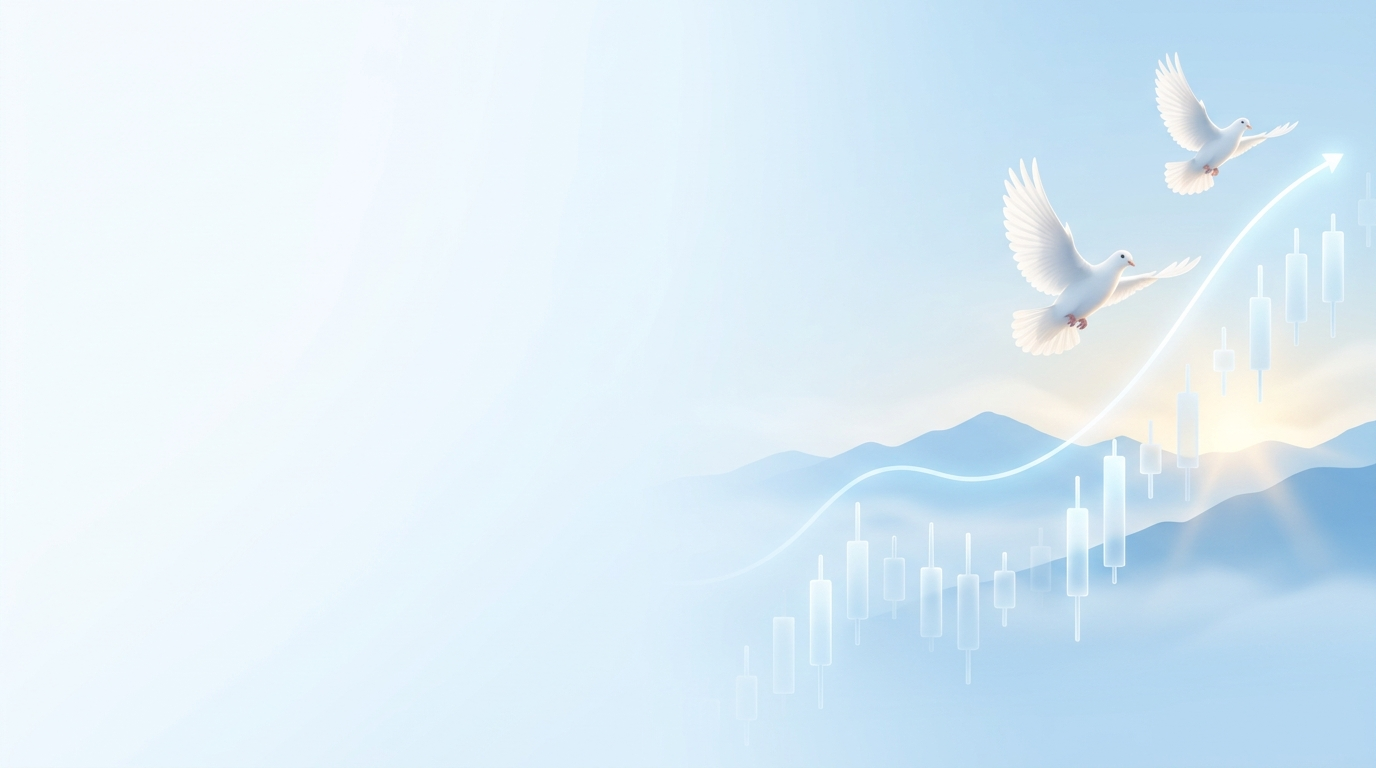
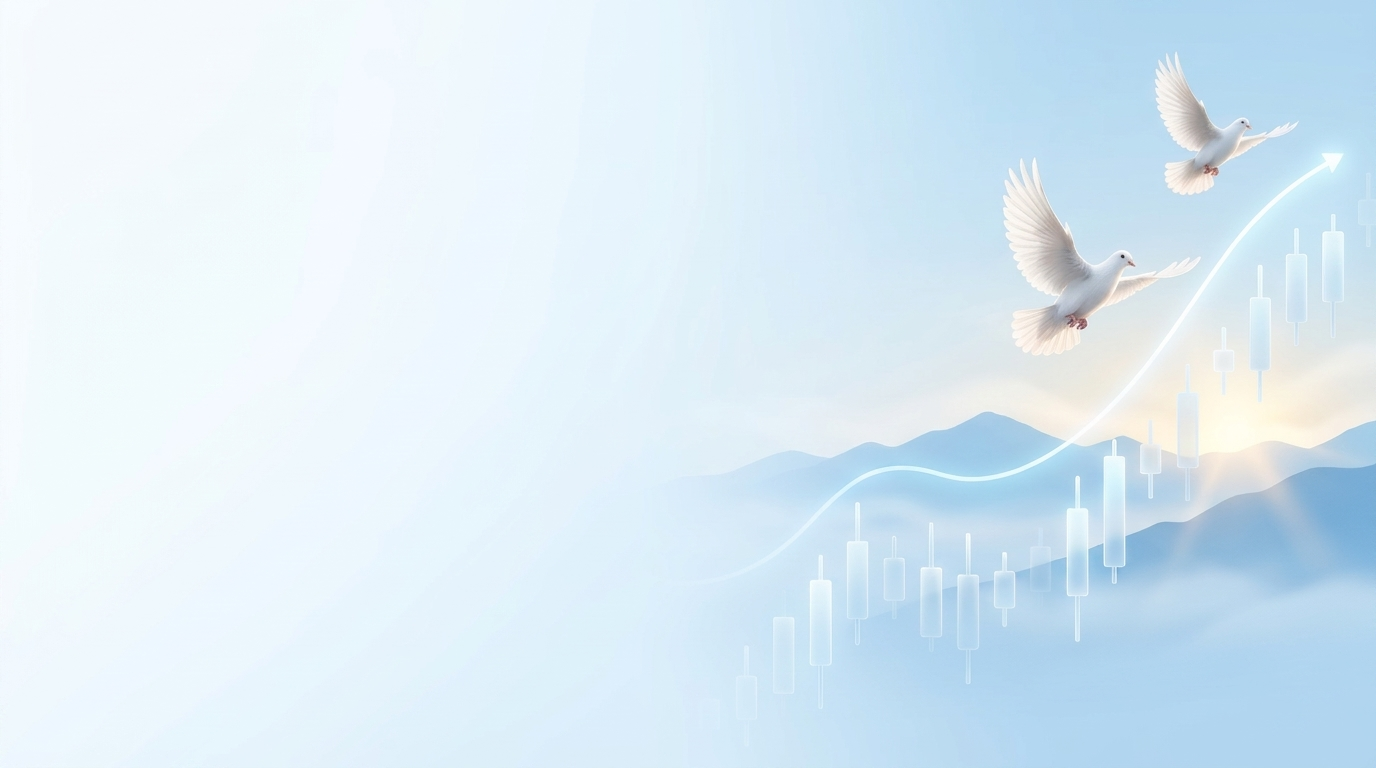
fix(ui): resolver contraste do grade c no novo trade, remover duplicacao em configuracoes e expandir tela sobre para ultrawide

Changed region(s): [[0.75, 0.25, 0.8125, 0.4375], [0.8438, 0.0938, 0.9062, 0.25]]

diff --git a/index.html b/index.html
@@ -1141,7 +1141,7 @@ body:not([data-theme="healthy"]):not([data-theme="pigeon"]) #traderprofile .plat
   <div id="traderWisdomRoot"></div>
 </section>
 
-<section class="page" id="settings"><div class="hero"><div><div class="eyebrow">Preferências do software</div><h1>Seu ambiente,<br>do seu jeito.</h1></div><p>Personalize idioma, aparência, navegação e os recursos de apoio sem alterar as regras do seu método.</p></div><div class="grid settings-grid"><div class="card theme-settings-card"><div class="card-head"><div><h3>Aparência do software</h3><span>Escolha a identidade visual que combina melhor com seu momento</span></div></div><div class="theme-picker" aria-label="Tema visual do software"><button class="theme-choice" type="button" data-theme-choice="gold" onclick="applyTheme('gold')"><span class="theme-swatch"></span>Premium Gold</button><button class="theme-choice" type="button" data-theme-choice="healthy" onclick="applyTheme('healthy')"><span class="theme-swatch"></span>Healthy Green</button><button class="theme-choice" type="button" data-theme-choice="pigeon" onclick="applyTheme('pigeon')"><span class="theme-swatch"></span>Pigeon Light</button></div></div><div class="card language-settings-card"><div class="card-head"><div><h3>Idioma do software</h3><span>Escolha como deseja ler toda a plataforma</span></div></div><p class="language-picker-label">Idioma de exibição</p><div class="language-picker" aria-label="Escolha o idioma"><button class="language-choice" type="button" data-language-choice="pt-BR" onclick="applyLanguage('pt-BR')">Português (BR)</button><button class="language-choice" type="button" data-language-choice="en-US" onclick="applyLanguage('en-US')">English (US)</button></div></div><div id="marketPauseSettingsRoot" style="grid-column: 1 / -1;"></div><div id="drSettingsSection" style="grid-column: 1 / -1;"></div></div></section>
+<section class="page" id="settings"><div class="hero"><div><h1>Seu ambiente,<br>do seu jeito.</h1></div><p>Personalize idioma, aparência, navegação e os recursos de apoio sem alterar as regras do seu método.</p></div><div class="grid settings-grid"><div class="card theme-settings-card"><div class="card-head"><div><h3>Aparência do software</h3><span>Escolha a identidade visual que combina melhor com seu momento</span></div></div><div class="theme-picker" aria-label="Tema visual do software"><button class="theme-choice" type="button" data-theme-choice="gold" onclick="applyTheme('gold')"><span class="theme-swatch"></span>Premium Gold</button><button class="theme-choice" type="button" data-theme-choice="healthy" onclick="applyTheme('healthy')"><span class="theme-swatch"></span>Healthy Green</button><button class="theme-choice" type="button" data-theme-choice="pigeon" onclick="applyTheme('pigeon')"><span class="theme-swatch"></span>Pigeon Light</button></div></div><div class="card language-settings-card"><div class="card-head"><div><h3>Idioma do software</h3><span>Escolha como deseja ler toda a plataforma</span></div></div><p class="language-picker-label">Idioma de exibição</p><div class="language-picker" aria-label="Escolha o idioma"><button class="language-choice" type="button" data-language-choice="pt-BR" onclick="applyLanguage('pt-BR')">Português (BR)</button><button class="language-choice" type="button" data-language-choice="en-US" onclick="applyLanguage('en-US')">English (US)</button></div></div><div id="marketPauseSettingsRoot" style="grid-column: 1 / -1;"></div><div id="drSettingsSection" style="grid-column: 1 / -1;"></div></div></section>
 <section class="page" id="riskpolicy"><div class="hero"><div><div class="eyebrow">Livro de regras</div><h1>Política de<br>risco.</h1></div><p>Defina o Risk Budget por Grade e os limitadores que transformam esse teto em risco executável.</p></div><div class="grid settings-grid" id="riskPolicyGrid"><section class="card"><div class="card-head"><div><h3>Proteção da conta</h3><span>Limites permanentes da operação</span></div></div><div class="setting-row"><div><b>Volatilidade alvo</b><small>Modelo baseado em ATR</small></div><strong>0,20%</strong></div><div class="setting-row"><div><b>Limite de capital</b><small>Máximo por posição</small></div><strong>10%</strong></div><div class="setting-row"><div><b>Portfolio Heat máximo</b><small>Risco agregado</small></div><strong>12,5%</strong></div><div class="setting-row"><div><b>Máximo de posições</b><small>Simultâneas</small></div><strong>10</strong></div></section><section class="card"><div class="card-head"><div><h3>Regras A</h3><span>Critérios obrigatórios do método</span></div></div><div class="setting-row"><div><b>Diário saudável</b><small>Médias totalmente alinhadas</small></div><div class="toggle on"><span></span></div></div><div class="setting-row"><div><b>ATR% abaixo de 2%</b><small>Zona verde</small></div><div class="toggle on"><span></span></div></div><div class="setting-row"><div><b>Contração no 4H</b><small>Não comprar expansão</small></div><div class="toggle on"><span></span></div></div><div class="setting-row"><div><b>Gatilho confirmado</b><small>Execução objetiva</small></div><div class="toggle on"><span></span></div></div><div class="setting-row"><div><b>Bloquear trade rejeitado</b><small>Permitir apenas com justificativa</small></div><div class="toggle"><span></span></div></div></section></div></section>
 <section class="page" id="portfolioheat" aria-label="Controle de Portfolio Heat"><div id="portfolioHeatRoot"></div></section>
 <section class="page" id="forecast" aria-label="Simulador de Equity"><div id="forecastRoot"></div></section>
@@ -2186,49 +2186,92 @@ function syncQualityRulerExperience(result){
     el.className='grade-val '+gradeClass;
   });
 
+  const isPigeon = document.documentElement.getAttribute('data-theme') === 'pigeon' || document.body?.getAttribute('data-theme') === 'pigeon';
   document.querySelectorAll('#experienceStatus, #tradeGaugeMessage').forEach(statusEl=>{
     if(!complete&&numericScore===0){
       statusEl.className='experience-status status-pending';
       statusEl.textContent='○ AVALIE TODOS OS CRITÉRIOS';
-      statusEl.style.setProperty('background', 'rgba(20, 50, 36, 0.6)', 'important');
-      statusEl.style.setProperty('border-color', 'rgba(143, 224, 170, 0.28)', 'important');
-      statusEl.style.setProperty('color', '#b9d8c4', 'important');
-      statusEl.style.setProperty('box-shadow', 'none', 'important');
+      if(isPigeon){
+        statusEl.style.setProperty('background', '#F0F7FB', 'important');
+        statusEl.style.setProperty('border-color', '#B8D6E5', 'important');
+        statusEl.style.setProperty('color', '#476577', 'important');
+        statusEl.style.setProperty('box-shadow', 'none', 'important');
+      }else{
+        statusEl.style.setProperty('background', 'rgba(20, 50, 36, 0.6)', 'important');
+        statusEl.style.setProperty('border-color', 'rgba(143, 224, 170, 0.28)', 'important');
+        statusEl.style.setProperty('color', '#b9d8c4', 'important');
+        statusEl.style.setProperty('box-shadow', 'none', 'important');
+      }
     }else if(isDanger){
       statusEl.className='experience-status status-danger';
       statusEl.textContent='● OPERAÇÃO NÃO RECOMENDADA';
-      statusEl.style.setProperty('background', 'rgba(220, 38, 38, 0.25)', 'important');
-      statusEl.style.setProperty('border-color', '#ef4444', 'important');
-      statusEl.style.setProperty('color', '#fca5a5', 'important');
-      statusEl.style.setProperty('box-shadow', '0 0 16px rgba(239, 68, 68, 0.35)', 'important');
+      if(isPigeon){
+        statusEl.style.setProperty('background', '#FEF2F2', 'important');
+        statusEl.style.setProperty('border-color', '#F87171', 'important');
+        statusEl.style.setProperty('color', '#B91C1C', 'important');
+        statusEl.style.setProperty('box-shadow', '0 2px 8px rgba(239, 68, 68, 0.15)', 'important');
+      }else{
+        statusEl.style.setProperty('background', 'rgba(220, 38, 38, 0.25)', 'important');
+        statusEl.style.setProperty('border-color', '#ef4444', 'important');
+        statusEl.style.setProperty('color', '#fca5a5', 'important');
+        statusEl.style.setProperty('box-shadow', '0 0 16px rgba(239, 68, 68, 0.35)', 'important');
+      }
     }else if(isGradeC){
       statusEl.className='experience-status status-caution';
       statusEl.textContent='GRADE C — SMALL EDGE';
-      statusEl.style.setProperty('background', 'rgba(234, 179, 8, 0.25)', 'important');
-      statusEl.style.setProperty('border-color', '#eab308', 'important');
-      statusEl.style.setProperty('color', '#fef08a', 'important');
-      statusEl.style.setProperty('box-shadow', '0 0 16px rgba(234, 179, 8, 0.25)', 'important');
+      if(isPigeon){
+        statusEl.style.setProperty('background', '#FEF3C7', 'important');
+        statusEl.style.setProperty('border-color', '#F59E0B', 'important');
+        statusEl.style.setProperty('color', '#92400E', 'important');
+        statusEl.style.setProperty('box-shadow', '0 2px 8px rgba(245, 158, 11, 0.18)', 'important');
+      }else{
+        statusEl.style.setProperty('background', 'rgba(234, 179, 8, 0.25)', 'important');
+        statusEl.style.setProperty('border-color', '#eab308', 'important');
+        statusEl.style.setProperty('color', '#fef08a', 'important');
+        statusEl.style.setProperty('box-shadow', '0 0 16px rgba(234, 179, 8, 0.25)', 'important');
+      }
     }else if(isGradeB){
       statusEl.className='experience-status status-caution';
       statusEl.textContent='GRADE B — GOOD TRADE';
-      statusEl.style.setProperty('background', 'rgba(234, 179, 8, 0.25)', 'important');
-      statusEl.style.setProperty('border-color', '#eab308', 'important');
-      statusEl.style.setProperty('color', '#fef08a', 'important');
-      statusEl.style.setProperty('box-shadow', '0 0 16px rgba(234, 179, 8, 0.25)', 'important');
+      if(isPigeon){
+        statusEl.style.setProperty('background', '#F0FDF4', 'important');
+        statusEl.style.setProperty('border-color', '#86EFAC', 'important');
+        statusEl.style.setProperty('color', '#166534', 'important');
+        statusEl.style.setProperty('box-shadow', '0 2px 8px rgba(34, 197, 94, 0.15)', 'important');
+      }else{
+        statusEl.style.setProperty('background', 'rgba(234, 179, 8, 0.25)', 'important');
+        statusEl.style.setProperty('border-color', '#eab308', 'important');
+        statusEl.style.setProperty('color', '#fef08a', 'important');
+        statusEl.style.setProperty('box-shadow', '0 0 16px rgba(234, 179, 8, 0.25)', 'important');
+      }
     }else if(isApproved){
       statusEl.className='experience-status status-good';
       statusEl.textContent='🏆 GRADE A — RARE TRADE';
-      statusEl.style.setProperty('background', 'rgba(16, 107, 71, 0.45)', 'important');
-      statusEl.style.setProperty('border-color', '#22c55e', 'important');
-      statusEl.style.setProperty('color', '#bbf7d0', 'important');
-      statusEl.style.setProperty('box-shadow', '0 0 16px rgba(34, 197, 94, 0.28)', 'important');
+      if(isPigeon){
+        statusEl.style.setProperty('background', '#ECFDF5', 'important');
+        statusEl.style.setProperty('border-color', '#34D399', 'important');
+        statusEl.style.setProperty('color', '#15803D', 'important');
+        statusEl.style.setProperty('box-shadow', '0 2px 8px rgba(16, 185, 129, 0.2)', 'important');
+      }else{
+        statusEl.style.setProperty('background', 'rgba(16, 107, 71, 0.45)', 'important');
+        statusEl.style.setProperty('border-color', '#22c55e', 'important');
+        statusEl.style.setProperty('color', '#bbf7d0', 'important');
+        statusEl.style.setProperty('box-shadow', '0 0 16px rgba(34, 197, 94, 0.28)', 'important');
+      }
     }else{
       statusEl.className='experience-status';
       statusEl.textContent='● '+tradeGradeMessage(grade).replace(/^[🔴🟡🟢]\s*/,'');
-      statusEl.style.removeProperty('background');
-      statusEl.style.removeProperty('border-color');
-      statusEl.style.removeProperty('color');
-      statusEl.style.removeProperty('box-shadow');
+      if(isPigeon){
+        statusEl.style.setProperty('background', '#F0F7FB', 'important');
+        statusEl.style.setProperty('border-color', '#B8D6E5', 'important');
+        statusEl.style.setProperty('color', '#304B5B', 'important');
+        statusEl.style.setProperty('box-shadow', 'none', 'important');
+      }else{
+        statusEl.style.removeProperty('background');
+        statusEl.style.removeProperty('border-color');
+        statusEl.style.removeProperty('color');
+        statusEl.style.removeProperty('box-shadow');
+      }
     }
   });
 

diff --git a/frontend/theme-pigeon-light.css b/frontend/theme-pigeon-light.css
@@ -7099,3 +7099,147 @@ body[data-theme="pigeon"] .sidebar-badge-pro {
 
 
 body[data-theme="pigeon"] #settings .settings-hero { padding-top: 36px !important; margin-top: 0 !important; }
+
+/* =========================================================================
+   PIGEON LIGHT: CONTRAST, SETTINGS & WIDESCREEN ENHANCEMENTS
+   ========================================================================= */
+
+/* 1. Novo Trade: Grade Status Pill (#tradeGaugeMessage & #experienceStatus) */
+body[data-theme="pigeon"] #newtrade #tradeGaugeMessage,
+body[data-theme="pigeon"] #newtrade #experienceStatus,
+body[data-theme="pigeon"] .experience-status {
+  font-weight: 800 !important;
+  letter-spacing: 0.04em !important;
+  border-width: 1.5px !important;
+  border-style: solid !important;
+  border-radius: 999px !important;
+  padding: 6px 18px !important;
+  display: inline-flex !important;
+  align-items: center !important;
+  justify-content: center !important;
+  text-transform: uppercase !important;
+}
+
+body[data-theme="pigeon"] #newtrade #tradeGaugeMessage.status-caution,
+body[data-theme="pigeon"] #newtrade #experienceStatus.status-caution {
+  background: #FEF3C7 !important;
+  border-color: #F59E0B !important;
+  color: #92400E !important;
+  box-shadow: 0 2px 10px rgba(245, 158, 11, 0.2) !important;
+}
+
+body[data-theme="pigeon"] #newtrade #tradeGaugeMessage.status-good,
+body[data-theme="pigeon"] #newtrade #experienceStatus.status-good {
+  background: #ECFDF5 !important;
+  border-color: #34D399 !important;
+  color: #15803D !important;
+  box-shadow: 0 2px 10px rgba(16, 185, 129, 0.22) !important;
+}
+
+body[data-theme="pigeon"] #newtrade #tradeGaugeMessage.status-danger,
+body[data-theme="pigeon"] #newtrade #experienceStatus.status-danger {
+  background: #FEF2F2 !important;
+  border-color: #F87171 !important;
+  color: #B91C1C !important;
+  box-shadow: 0 2px 10px rgba(239, 68, 68, 0.18) !important;
+}
+
+body[data-theme="pigeon"] #newtrade #tradeGaugeMessage.status-pending,
+body[data-theme="pigeon"] #newtrade #experienceStatus.status-pending {
+  background: #F0F7FB !important;
+  border-color: #B8D6E5 !important;
+  color: #476577 !important;
+  box-shadow: none !important;
+}
+
+/* Etapa 3: Banner de Missão Ativa contraste */
+body[data-theme="pigeon"] #newtrade .mission-banner-desc,
+body[data-theme="pigeon"] #newtrade #wbMissionDesc {
+  color: #182B36 !important;
+  font-weight: 600 !important;
+  font-size: 13.5px !important;
+  line-height: 1.55 !important;
+  max-width: 62% !important;
+}
+
+body[data-theme="pigeon"] #newtrade .mission-metric-val.is-effective,
+body[data-theme="pigeon"] #newtrade #wbMissionEffectiveRisk {
+  color: #0F3B4C !important;
+  text-shadow: none !important;
+  font-weight: 900 !important;
+  font-size: 20px !important;
+}
+
+body[data-theme="pigeon"] #newtrade .mission-metric-pill.is-effective .mission-metric-label {
+  color: #1D4E63 !important;
+  font-weight: 850 !important;
+}
+
+/* 2. Configurações Gerais: Sem duplicação de título e com respiração superior */
+body[data-theme="pigeon"]:has(#settings.active) .content {
+  padding-top: 24px !important;
+}
+
+body[data-theme="pigeon"] #settings .settings-hero,
+#settings .settings-hero {
+  padding-top: 20px !important;
+  margin-top: 0 !important;
+}
+
+#settings .settings-hero .eyebrow,
+.settings-hero .eyebrow {
+  display: none !important;
+}
+
+body[data-theme="pigeon"] #settings .settings-hero h1,
+#settings .settings-hero h1 {
+  margin-top: 0 !important;
+  padding-top: 4px !important;
+  color: #102430 !important;
+}
+
+/* 3. Tela Sobre: Monitores Wide e Ultrawide */
+@media (min-width: 1600px) {
+  body[data-theme="pigeon"] #about .about-wrapper {
+    --about-composition-width: min(1860px, 94vw) !important;
+  }
+  body[data-theme="pigeon"] #about .about-hero-content {
+    max-width: min(960px, 50vw) !important;
+  }
+}
+
+@media (min-width: 2000px) {
+  body[data-theme="pigeon"] #about .about-wrapper {
+    --about-composition-width: min(2300px, 94vw) !important;
+  }
+  body[data-theme="pigeon"] #about .about-hero-content {
+    max-width: min(1100px, 46vw) !important;
+  }
+  body[data-theme="pigeon"] #about .about-hero {
+    min-height: clamp(580px, 58vh, 740px) !important;
+  }
+}
+
+@media (min-width: 2600px) {
+  body[data-theme="pigeon"] #about .about-wrapper {
+    --about-composition-width: min(2900px, 92vw) !important;
+  }
+  body[data-theme="pigeon"] #about .about-hero-content {
+    max-width: min(1300px, 44vw) !important;
+  }
+  body[data-theme="pigeon"] #about .about-hero {
+    min-height: clamp(620px, 58vh, 780px) !important;
+  }
+}
+
+html[data-theme="pigeon"] #about .about-hero-art,
+body[data-theme="pigeon"] #about .about-hero-art {
+  background: url('../assets/about-pigeon-hero.png') right center / cover no-repeat !important;
+  filter: none !important;
+  mix-blend-mode: normal !important;
+  opacity: 1 !important;
+  transform: none !important;
+  image-rendering: auto !important;
+  -webkit-mask-image: linear-gradient(90deg, transparent 0%, rgba(0,0,0,0.06) 10%, rgba(0,0,0,0.65) 28%, #000 44%, #000 100%) !important;
+  mask-image: linear-gradient(90deg, transparent 0%, rgba(0,0,0,0.06) 10%, rgba(0,0,0,0.65) 28%, #000 44%, #000 100%) !important;
+}

diff --git a/frontend/theme-consistency.test.js b/frontend/theme-consistency.test.js
@@ -286,3 +286,26 @@ test('Pigeon Light (Ajustes Adicionais): Espaçamento em Configurações, Hero d
   assert.ok(css.includes('max-width: 62% !important;'), 'Descrição da Missão Ativa não deve invadir o escalador');
   assert.ok(css.includes('.mission-metric-pill.is-effective .mission-metric-label'), 'Deve garantir contraste no label do risco efetivo');
 });
+
+test('Pigeon Light (Refinamento Final): Grade C contraste em index.html, Remoção do eyebrow em Configurações e Tela Sobre Widescreen/Ultrawide', () => {
+  const html = fs.readFileSync(path.join(root, 'index.html'), 'utf8');
+  const setJs = fs.readFileSync(path.join(root, 'frontend', 'settings-experience.js'), 'utf8');
+  const setCss = fs.readFileSync(path.join(root, 'frontend', 'settings-experience.css'), 'utf8');
+  const aboutCss = fs.readFileSync(path.join(root, 'frontend', 'about-page.css'), 'utf8');
+  const pigeonCss = fs.readFileSync(path.join(root, 'frontend', 'theme-pigeon-light.css'), 'utf8');
+
+  // 1. Novo Trade: Grade C em Pigeon Light tem contraste WCAG AAA (#92400E e fundo #FEF3C7)
+  assert.ok(html.includes("statusEl.style.setProperty('color', '#92400E', 'important')"), 'index.html deve aplicar #92400E para Grade C no Pigeon Light');
+  assert.ok(html.includes("statusEl.style.setProperty('background', '#FEF3C7', 'important')"), 'index.html deve aplicar #FEF3C7 para Grade C no Pigeon Light');
+  assert.ok(pigeonCss.includes('#92400E !important;'), 'theme-pigeon-light.css deve garantir cor #92400E no Grade C');
+
+  // 2. Configurações: remoção do eyebrow duplicado e espaçamento
+  assert.ok(!setJs.includes("CONFIGURAÇÕES GERAIS"), 'settings-experience.js não deve ter eyebrow duplicado de CONFIGURAÇÕES GERAIS');
+  assert.ok(setCss.includes('.eyebrow{display:none!important}'), 'settings-experience.css deve ocultar .eyebrow no hero');
+
+  // 3. Sobre: expansão fluida em monitores widescreen e ultrawide (1600px, 2000px, 2600px)
+  assert.ok(aboutCss.includes('--about-composition-width: min(1860px, 94vw);'), 'about-page.css deve suportar largura fluida a partir de 1600px');
+  assert.ok(aboutCss.includes('--about-composition-width: min(2300px, 94vw);'), 'about-page.css deve suportar ultrawide a partir de 2000px');
+  assert.ok(aboutCss.includes('--about-composition-width: min(2900px, 92vw);'), 'about-page.css deve suportar super ultrawide a partir de 2600px');
+  assert.ok(pigeonCss.includes("background: url('../assets/about-pigeon-hero.png') right center / cover no-repeat !important;"), 'theme-pigeon-light.css deve posicionar imagem sem distorção');
+});

diff --git a/frontend/settings-experience.css b/frontend/settings-experience.css
@@ -1,10 +1,10 @@
 body:has(#settings.active){overflow:hidden!important}
 body:has(#settings.active) .main{background:#f1f2e7 url('../assets/settings/environment.png') center top/100% 960px no-repeat;min-height:0;height:100vh}
 body:has(#settings.active) .topbar{background:transparent;border:0;min-height:64px;backdrop-filter:none}
-body:has(#settings.active) .content{display:flex;flex-direction:column;flex:1;min-height:0;height:calc(100vh - 64px);gap:0;overflow-y:auto;overflow-x:hidden;max-width:none;width:100%;padding:0 clamp(24px,3vw,48px) 18px;margin:0;scrollbar-width:thin}
+body:has(#settings.active) .content{display:flex;flex-direction:column;flex:1;min-height:0;height:calc(100vh - 64px);gap:0;overflow-y:auto;overflow-x:hidden;max-width:none;width:100%;padding:24px clamp(24px,3vw,48px) 18px;margin:0;scrollbar-width:thin}
 #settings.active{display:contents;color:#092f25;--ink:#092f25;--muted:#60716b;--good:#168754;--line:#d6e2d8}
 #settings .settings-hero{order:0;flex:none;display:flex;justify-content:space-between;align-items:center;min-height:215px;margin:0;padding:32px 0 24px;background:none;border:0;box-shadow:none}
-#settings .settings-hero .eyebrow{font-size:12px;letter-spacing:.17em;color:#185c3c;margin-bottom:12px}
+#settings .settings-hero .eyebrow{display:none!important}
 #settings .settings-hero h1{font-family:inherit;font-size:clamp(35px,3.2vw,52px);font-weight:800;letter-spacing:-.04em;line-height:1.02;margin:0 0 13px;color:#082d23}
 #settings .settings-hero p{font-size:14px;line-height:1.6;max-width:490px;color:#425b50;margin:0}
 #settings .settings-hero aside{font-family:Georgia,serif;font-size:23px;font-style:italic;line-height:1.3;color:#fff9dc;text-align:center;text-shadow:0 2px 5px #172c15;align-self:center;padding-top:20px}

diff --git a/frontend/settings-experience.js b/frontend/settings-experience.js
@@ -19,7 +19,7 @@
   function decorate() {
     const hero = page.querySelector('.hero');
     hero.className = 'hero settings-hero';
-    hero.innerHTML = `<div><div class="eyebrow">${t('CONFIGURAÇÕES GERAIS','GENERAL SETTINGS')}</div><h1>${t('Seu ambiente.<br>Suas regras.','Your environment.<br>Your rules.')}</h1><p>${t('Configure a plataforma para que ela trabalhe a favor da sua rotina<br>e não contra ela.','Configure the platform to work with your routine,<br>not against it.')}</p></div><aside>${t('Pequenos ajustes,<br>grandes resultados.','Small adjustments,<br>great results.')}</aside>`;
+    hero.innerHTML = `<div><h1>${t('Seu ambiente.<br>Suas regras.','Your environment.<br>Your rules.')}</h1><p>${t('Configure a plataforma para que ela trabalhe a favor da sua rotina<br>e não contra ela.','Configure the platform to work with your routine,<br>not against it.')}</p></div><aside>${t('Pequenos ajustes,<br>grandes resultados.','Small adjustments,<br>great results.')}</aside>`;
     const menu = page.querySelector('#navigationLayoutSettings');
     heading(menu, 'menu');
     menu?.querySelectorAll('.navigation-layout-option').forEach((button, i) => {

diff --git a/frontend/about-page.css b/frontend/about-page.css
@@ -607,3 +607,41 @@ body:has(#about.active) .content {
   .about-footer-left,
   .about-footer-right { flex-wrap: wrap; justify-content: center; }
 }
+
+/* ── 9. WIDESCREEN & ULTRAWIDE RESPONSIVE EXTENSIONS ────────────────────── */
+
+@media (min-width: 1600px) {
+  .about-wrapper {
+    --about-composition-width: min(1860px, 94vw);
+  }
+  .about-hero-content {
+    max-width: min(960px, 50vw);
+  }
+  .about-hero {
+    min-height: clamp(540px, 58vh, 700px);
+  }
+}
+
+@media (min-width: 2000px) {
+  .about-wrapper {
+    --about-composition-width: min(2300px, 94vw);
+  }
+  .about-hero-content {
+    max-width: min(1100px, 46vw);
+  }
+  .about-hero {
+    min-height: clamp(580px, 58vh, 740px);
+  }
+}
+
+@media (min-width: 2600px) {
+  .about-wrapper {
+    --about-composition-width: min(2900px, 92vw);
+  }
+  .about-hero-content {
+    max-width: min(1300px, 44vw);
+  }
+  .about-hero {
+    min-height: clamp(620px, 58vh, 780px);
+  }
+}
